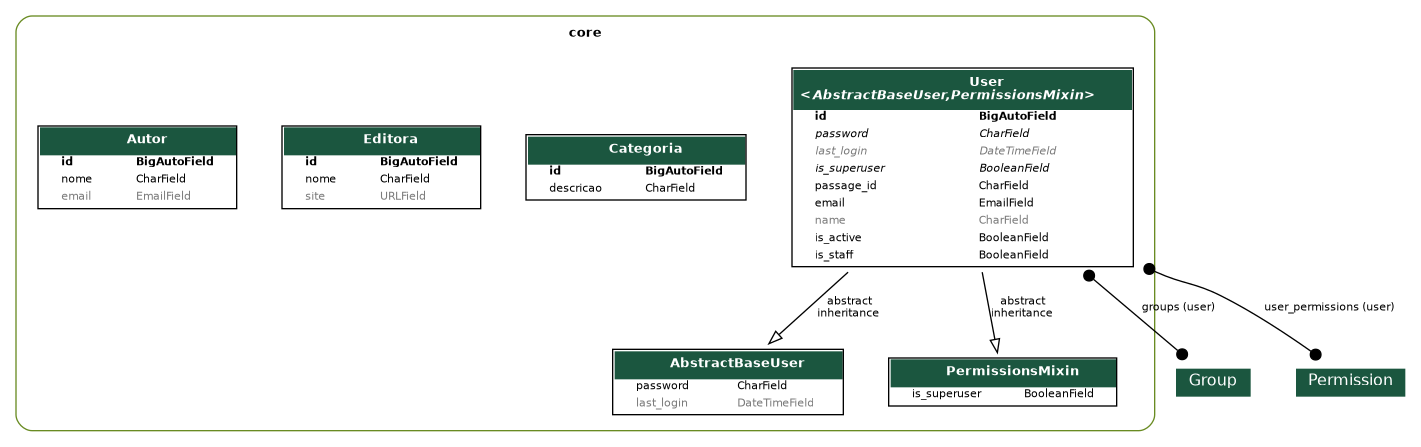
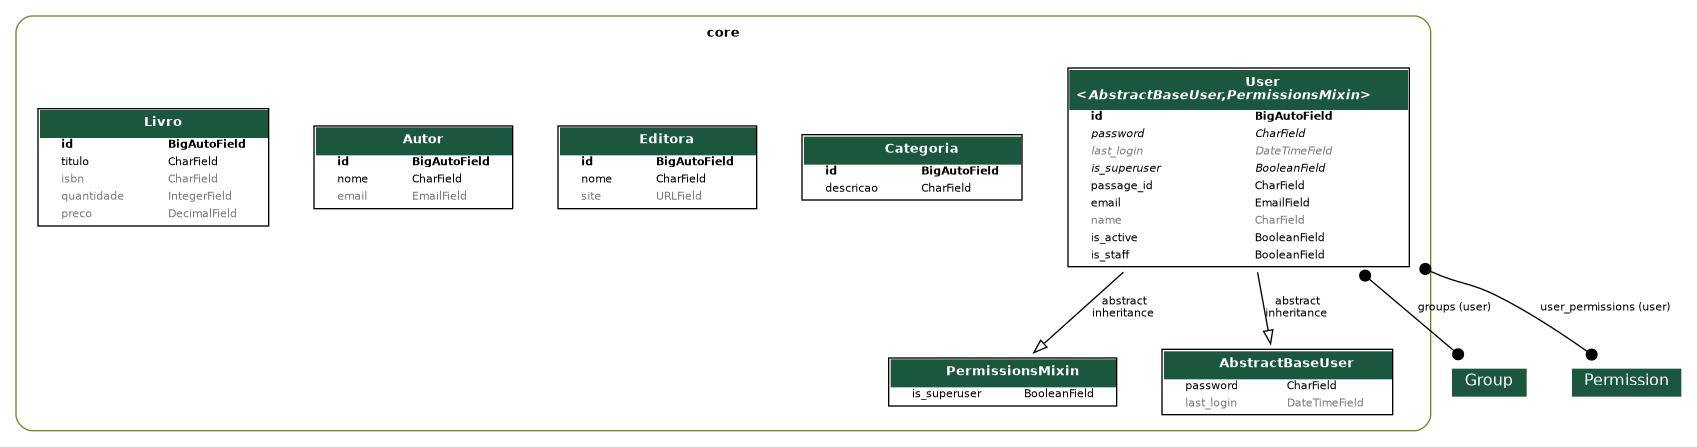
feat: criação da entidade para Livro

diff --git a/core/migrations/0003_livro.py b/core/migrations/0003_livro.py
@@ -1,0 +1,23 @@
+# Generated by Django 5.1.7 on 2025-05-25 17:33
+
+from django.db import migrations, models
+
+
+class Migration(migrations.Migration):
+
+    dependencies = [
+        ('core', '0002_autor'),
+    ]
+
+    operations = [
+        migrations.CreateModel(
+            name='Livro',
+            fields=[
+                ('id', models.BigAutoField(auto_created=True, primary_key=True, serialize=False, verbose_name='ID')),
+                ('titulo', models.CharField(max_length=255)),
+                ('isbn', models.CharField(blank=True, max_length=32, null=True)),
+                ('quantidade', models.IntegerField(blank=True, default=0, null=True)),
+                ('preco', models.DecimalField(blank=True, decimal_places=2, default=0, max_digits=7, null=True)),
+            ],
+        ),
+    ]

diff --git a/app/urls.py b/app/urls.py
@@ -8,9 +8,10 @@ from drf_spectacular.views import (
 from rest_framework.routers import DefaultRouter
 
 
-from core.views import CategoriaViewSet, EditoraViewSet, UserViewSet, AutorViewSet
+from core.views import CategoriaViewSet, EditoraViewSet, UserViewSet, AutorViewSet, LivroViewSet
 
 router = DefaultRouter()
+router.register(r"livros", LivroViewSet)
 router.register(r"editoras", EditoraViewSet)
 router.register(r"categorias", CategoriaViewSet) 
 router.register(r"autores", AutorViewSet)

diff --git a/core/models/livro.py b/core/models/livro.py
@@ -1,0 +1,11 @@
+from django.db import models
+
+
+class Livro(models.Model):
+    titulo = models.CharField(max_length=255)
+    isbn = models.CharField(max_length=32, null=True, blank=True)
+    quantidade = models.IntegerField(default=0,  null=True, blank=True)
+    preco = models.DecimalField(max_digits=7, decimal_places=2, default=0, null=True, blank=True)
+
+    def __str__(self):
+        return f"({self.id}) {self.titulo} ({self.quantidade})"

diff --git a/core/views/livro.py b/core/views/livro.py
@@ -1,0 +1,8 @@
+from rest_framework.viewsets import ModelViewSet
+
+from core.models import Livro
+from core.serializers import LivroSerializer
+
+class LivroViewSet(ModelViewSet):
+    queryset = Livro.objects.all()
+    serializer_class = LivroSerializer

diff --git a/core/serializers/livro.py b/core/serializers/livro.py
@@ -1,0 +1,8 @@
+from rest_framework.serializers import ModelSerializer
+
+from core.models import Livro
+
+class LivroSerializer(ModelSerializer):
+    class Meta:
+        model = Livro
+        fields = "__all__"

diff --git a/core/admin.py b/core/admin.py
@@ -55,3 +55,4 @@ admin.site.register(models.User, UserAdmin)
 admin.site.register(models.Categoria)
 admin.site.register(models.Editora)
 admin.site.register(models.Autor)
+admin.site.register(models.Livro)

diff --git a/core/serializers/__init__.py b/core/serializers/__init__.py
@@ -2,3 +2,4 @@ from .user import UserSerializer
 from .categoria import CategoriaSerializer
 from .editora import EditoraSerializer
 from .autor import AutorSerializer
+from .livro import LivroSerializer

diff --git a/core/views/__init__.py b/core/views/__init__.py
@@ -2,3 +2,4 @@ from .user import UserViewSet
 from .categoria import CategoriaViewSet
 from .editora import EditoraViewSet
 from .autor import AutorViewSet
+from .livro import LivroViewSet

diff --git a/core/models/__init__.py b/core/models/__init__.py
@@ -2,3 +2,4 @@ from .user import User
 from .categoria import Categoria
 from .editora import Editora
 from .autor import Autor
+from .livro import Livro
